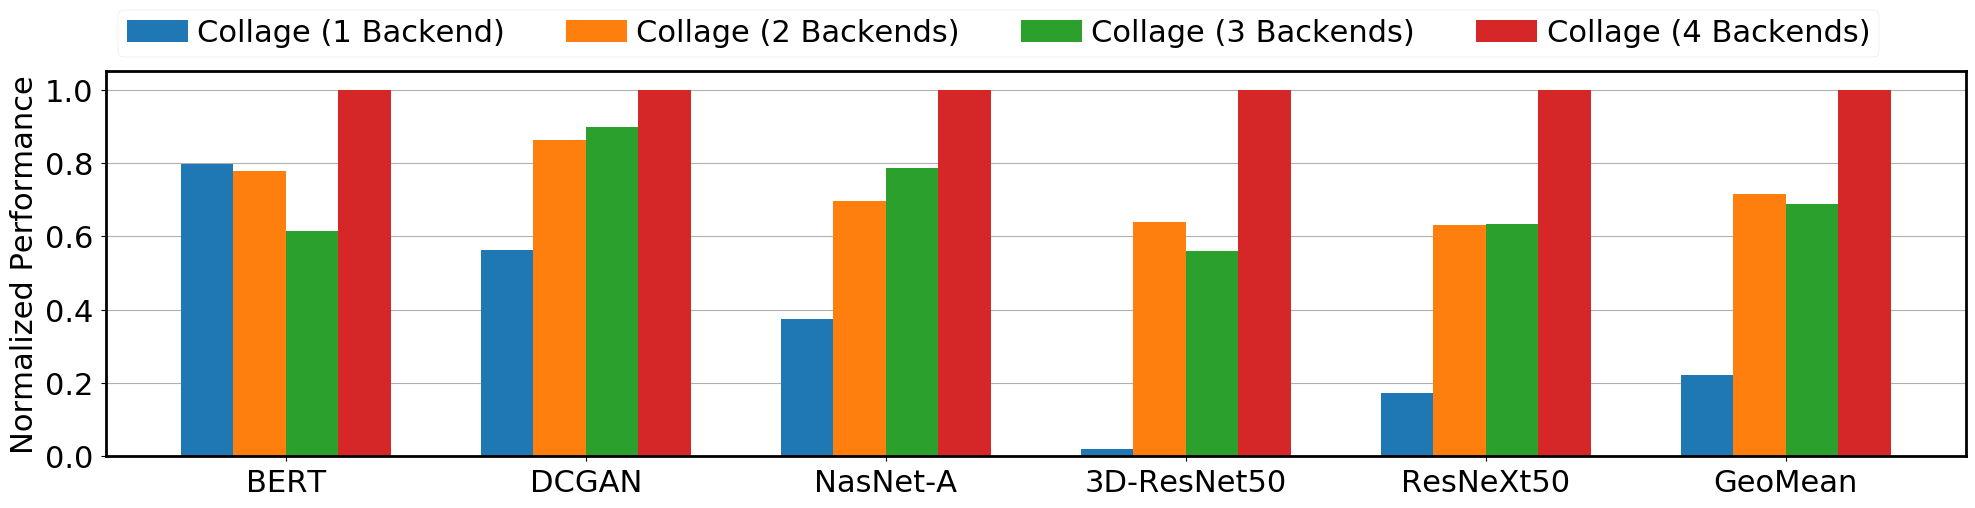
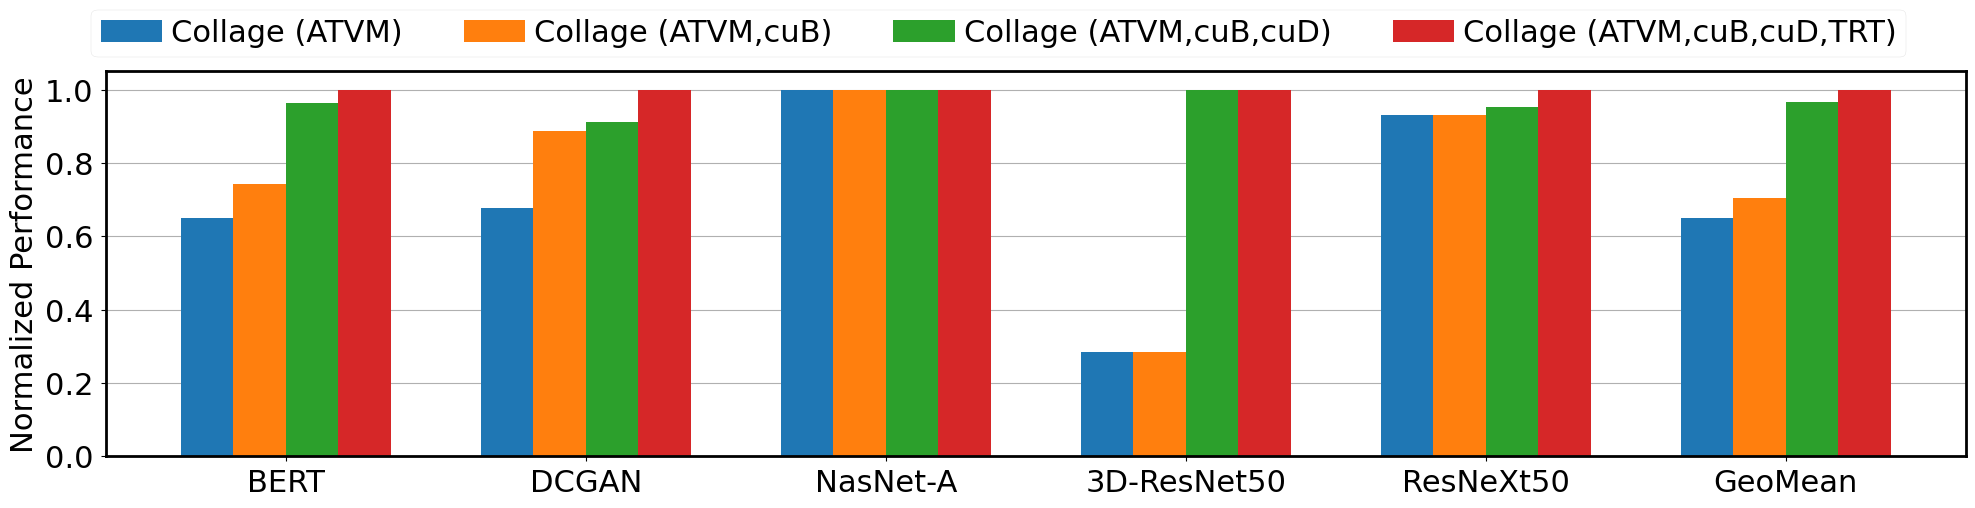
[Backend Ablation] final results and plots ready

diff --git a/sandbox/testing/plot_dp_backends.py b/sandbox/testing/plot_dp_backends.py
@@ -39,18 +39,18 @@ if __name__ == "__main__":
     df = df.pivot_table(values='mean_perf', index=df.index, columns='backends', aggfunc='first')
 
     # Plot adding one backend at a time
-    backends_to_print = ['cublas','cublas-cudnn','cublas-cudnn-tensorrt', 'cublas-cudnn-tensorrt-autotvm']
-    backend_rename_dic = {'cublas':'Collage (1 Backend)','cublas-cudnn':'Collage (2 Backends)',
-                          'cublas-cudnn-tensorrt':'Collage (3 Backends)','cublas-cudnn-tensorrt-autotvm':'Collage (4 Backends)'}
-    best_backend = 'Collage (4 Backends)'
+    backends_to_print = ['autotvm','autotvm-cublas','autotvm-cublas-cudnn', 'autotvm-cublas-cudnn-tensorrt']
+    backend_rename_dic = {'autotvm':'Collage (ATVM)','autotvm-cublas':'Collage (ATVM,cuB)',
+                          'autotvm-cublas-cudnn':'Collage (ATVM,cuB,cuD)','autotvm-cublas-cudnn-tensorrt':'Collage (ATVM,cuB,cuD,TRT)'}
+    best_backend = 'Collage (ATVM,cuB,cuD,TRT)'
     args.n_method = 4
     args.plot_name = 'backend_inc'
 
     # Plot all combinations of three backends performance
-    #backends_to_print = ['cudnn-tensorrt-autotvm','cublas-tensorrt-autotvm',
-    #                     'cublas-cudnn-autotvm', 'cublas-cudnn-tensorrt']
-    #backend_rename_dic = {'cudnn-tensorrt-autotvm':'-cuBLAS','cublas-tensorrt-autotvm':'-cuDNN',
-    #                      'cublas-cudnn-autotvm':'-TensorRT','cublas-cudnn-tensorrt':'-TVM'}
+    #backends_to_print = ['cublas-cublas-autotvm','autotvm-cublas-autotvm',
+    #                     'autotvm-cublas-autotvm', 'autotvm-cublas-cublas']
+    #backend_rename_dic = {'cublas-cublas-autotvm':'-autotvm','autotvm-cublas-autotvm':'-cublas',
+    #                      'autotvm-cublas-autotvm':'-cublas','autotvm-cublas-cublas':'-TVM'}
     #best_backend = '-TVM'
     #args.n_method = 4
     #args.plot_name = 'backend_dec'

diff --git a/sandbox/testing/measure_dp_backends.py b/sandbox/testing/measure_dp_backends.py
@@ -113,10 +113,10 @@ if __name__ == "__main__":
     # - Incomplete op coverages: (cuDNN, TensorRT, cuBLAS)
 
     import itertools
-    backend_combinations = [[Target.CUBLAS, Target.TVM_DEFAULT],
-                            [Target.CUBLAS, Target.CUDNN, Target.TVM_DEFAULT],
-                            [Target.CUBLAS, Target.CUDNN, Target.TENSORRT, Target.TVM_DEFAULT],
-                            [Target.CUBLAS, Target.CUDNN, Target.TENSORRT, Target.AUTOTVM]]
+    backend_combinations = [[Target.AUTOTVM],
+                            [Target.AUTOTVM, Target.CUBLAS],
+                            [Target.AUTOTVM, Target.CUBLAS, Target.CUDNN],
+                            [Target.AUTOTVM, Target.CUBLAS, Target.CUDNN, Target.TENSORRT]]
 
     for subset in backend_combinations:
         measure_dp(mod["main"], params, shape_dict, args, is_perf_logging, subset)
